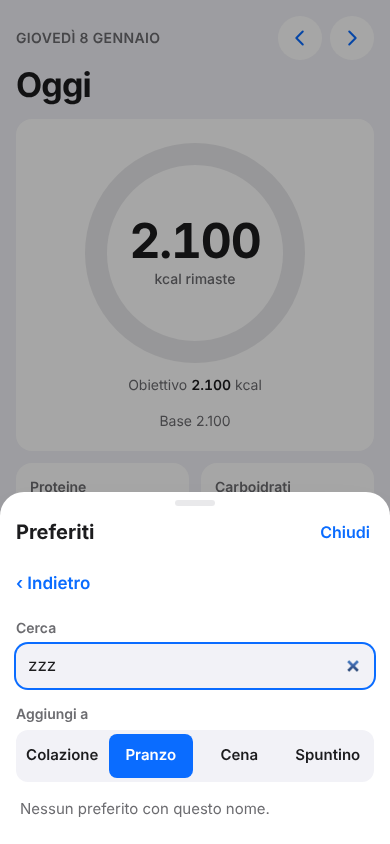
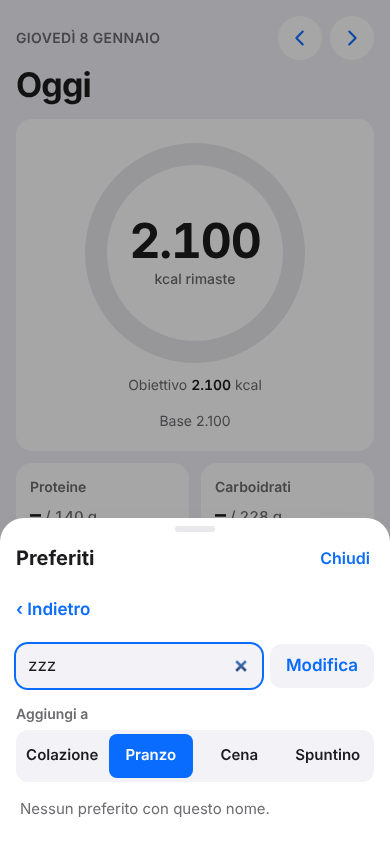
T4b.3 preferiti: + e Modifica (in attesa di revisione)
Claude-Session: https://claude.ai/code/session_015vJA156enAwwDaa2Dedvun

diff --git a/src/app/components/favorites-view.tsx b/src/app/components/favorites-view.tsx
@@ -28,6 +28,8 @@ export function FavoritesView({ store, date, initialSlot, dayDishes, onChanged, 
   const [slot, setSlot] = useState<MealSlot>(initialSlot ?? "pranzo");
   const [busy, setBusy] = useState(false);
   const [confirmDelete, setConfirmDelete] = useState<string | null>(null);
+  // In modifica ogni riga mostra "Elimina" al posto del "+" e un tocco sulla riga non aggiunge nulla.
+  const [editing, setEditing] = useState(false);
   const [loadFailed, setLoadFailed] = useState(false);
 
   const load = () =>
@@ -81,26 +83,47 @@ export function FavoritesView({ store, date, initialSlot, dayDishes, onChanged, 
   const dishes = filterByName(lists.dishes, query);
   const total = lists.meals.length + lists.dishes.length;
 
-  const row = (kind: "dish" | "meal", id: string, name: string, detail: string, kcal: number, onAdd: () => void) => (
-    <li key={`${kind}-${id}`} className="flex items-stretch border-t border-line first:border-t-0">
-      <button type="button" disabled={busy} onClick={onAdd} aria-label={`Aggiungi ${name}`} className="flex min-h-14 min-w-0 flex-1 items-center justify-between gap-3 px-4 py-2 text-left disabled:opacity-50">
-        <span className="min-w-0">
+  const plus = (
+    <svg width="28" height="28" viewBox="0 0 24 24" fill="none" stroke="currentColor" strokeWidth="2.4" strokeLinecap="round" aria-hidden="true" className="shrink-0 text-accent">
+      <circle cx="12" cy="12" r="10" strokeWidth="1.8" />
+      <path d="M12 8v8M8 12h8" />
+    </svg>
+  );
+
+  const row = (kind: "dish" | "meal", id: string, name: string, detail: string | null, kcal: number, onAdd: () => void) => {
+    const text = (
+      <>
+        <span className="min-w-0 flex-1">
           <span className="block break-words text-[17px] font-semibold leading-snug">{name}</span>
-          <span className="block break-words text-sm text-muted">{detail}</span>
+          {detail && <span className="block break-words text-sm text-muted">{detail}</span>}
         </span>
         <span className="shrink-0 text-[16px] tabular-nums text-muted">{formatNumber(kcal)} kcal</span>
-      </button>
-      {confirmDelete === `${kind}-${id}` ? (
-        <button type="button" disabled={busy} onClick={() => remove(kind, id)} className="min-h-14 shrink-0 bg-bad-fill px-3 text-[15px] font-semibold text-white disabled:opacity-50">
-          Elimina davvero
-        </button>
-      ) : (
-        <button type="button" onClick={() => setConfirmDelete(`${kind}-${id}`)} aria-label={`Elimina ${name} dai preferiti`} className="min-h-14 min-w-11 shrink-0 px-3 text-[15px] font-semibold text-bad">
-          Elimina
-        </button>
-      )}
-    </li>
-  );
+      </>
+    );
+    return (
+      <li key={`${kind}-${id}`} className="flex items-stretch border-t border-line first:border-t-0">
+        {editing ? (
+          <>
+            <div className="flex min-h-14 min-w-0 flex-1 items-center justify-between gap-3 px-4 py-2">{text}</div>
+            {confirmDelete === `${kind}-${id}` ? (
+              <button type="button" disabled={busy} onClick={() => remove(kind, id)} className="min-h-14 shrink-0 bg-bad-fill px-3 text-[15px] font-semibold text-white disabled:opacity-50">
+                Elimina davvero
+              </button>
+            ) : (
+              <button type="button" onClick={() => setConfirmDelete(`${kind}-${id}`)} aria-label={`Elimina ${name} dai preferiti`} className="min-h-14 min-w-11 shrink-0 px-3 text-[15px] font-semibold text-bad">
+                Elimina
+              </button>
+            )}
+          </>
+        ) : (
+          <button type="button" disabled={busy} onClick={onAdd} aria-label={`Aggiungi ${name}`} className="flex min-h-14 min-w-0 flex-1 items-center justify-between gap-3 px-4 py-2 text-left disabled:opacity-50">
+            {text}
+            {plus}
+          </button>
+        )}
+      </li>
+    );
+  };
 
   return (
     <div className="flex flex-col gap-4">
@@ -110,24 +133,42 @@ export function FavoritesView({ store, date, initialSlot, dayDishes, onChanged, 
         </p>
       ) : (
         <>
-          <div className="flex flex-col gap-1.5">
-            <label htmlFor="fav-search" className="text-sm font-semibold text-muted">
-              Cerca
-            </label>
-            <input id="fav-search" type="search" autoComplete="off" value={query} onChange={(e) => setQuery(e.target.value)} placeholder="Nome del piatto o del pasto" className={input} />
+          <div className="flex items-center gap-2">
+            <input
+              id="fav-search"
+              type="search"
+              autoComplete="off"
+              aria-label="Cerca"
+              value={query}
+              onChange={(e) => setQuery(e.target.value)}
+              placeholder="Cerca"
+              className={`${input} min-w-0 flex-1`}
+            />
+            <button
+              type="button"
+              onClick={() => {
+                setEditing((v) => !v);
+                setConfirmDelete(null);
+              }}
+              className="min-h-11 shrink-0 rounded-xl bg-bg px-4 text-[17px] font-semibold text-accent"
+            >
+              {editing ? "Fine" : "Modifica"}
+            </button>
           </div>
-          <div className="flex flex-col gap-1.5">
-            <span id="fav-slot" className="text-sm font-semibold text-muted">
-              Aggiungi a
-            </span>
-            <div role="radiogroup" aria-labelledby="fav-slot" className="grid grid-cols-4 gap-1 rounded-xl bg-bg p-1">
-              {SLOTS.map((s) => (
-                <button key={s.value} type="button" role="radio" aria-checked={slot === s.value} onClick={() => setSlot(s.value)} className={`min-h-11 rounded-lg px-1 text-[15px] font-semibold ${slot === s.value ? "bg-accent text-white" : "text-fg"}`}>
-                  {s.label}
-                </button>
-              ))}
+          {!initialSlot && !editing && (
+            <div className="flex flex-col gap-1.5">
+              <span id="fav-slot" className="text-sm font-semibold text-muted">
+                Aggiungi a
+              </span>
+              <div role="radiogroup" aria-labelledby="fav-slot" className="grid grid-cols-4 gap-1 rounded-xl bg-bg p-1">
+                {SLOTS.map((s) => (
+                  <button key={s.value} type="button" role="radio" aria-checked={slot === s.value} onClick={() => setSlot(s.value)} className={`min-h-11 rounded-lg px-1 text-[15px] font-semibold ${slot === s.value ? "bg-accent text-white" : "text-fg"}`}>
+                    {s.label}
+                  </button>
+                ))}
+              </div>
             </div>
-          </div>
+          )}
           {meals.length > 0 && (
             <section aria-label="Pasti salvati" className="flex flex-col gap-2">
               <h3 className="text-sm font-semibold uppercase tracking-wide text-muted">Pasti</h3>
@@ -140,7 +181,7 @@ export function FavoritesView({ store, date, initialSlot, dayDishes, onChanged, 
             <section aria-label="Piatti salvati" className="flex flex-col gap-2">
               <h3 className="text-sm font-semibold uppercase tracking-wide text-muted">Piatti</h3>
               <ul className="overflow-hidden rounded-2xl bg-bg">
-                {dishes.map((f) => row("dish", f.id, f.name, f.quantity ?? "Senza quantità", f.kcal, () => add(recordsFromFavoriteDish(f, date, slot, newId))))}
+                {dishes.map((f) => row("dish", f.id, f.name, f.quantity, f.kcal, () => add(recordsFromFavoriteDish(f, date, slot, newId))))}
               </ul>
             </section>
           )}

diff --git a/docs/DIARIO.md b/docs/DIARIO.md
@@ -45,6 +45,7 @@ Una riga per task chiuso.
 - Verifica dopo la fase · contatore delle stime AI protetto: l'utente poteva azzerare `ai_usage` con un update diretto e superare il limite. Migrazione 0009: tolti i permessi diretti di inserimento e modifica, funzione `use_ai_estimate` con i permessi del proprietario. Provata su PostgreSQL locale: limite rispettato, update diretto senza effetto. Aggiunto `supabase/aggiornamento-fase-4.sql` (migrazioni 6-9) per chi ha già eseguito `setup.sql` della fase 3.
 - T4b.1 · fatto · pannello Aggiungi con selettore "AI | Manuale" accanto al titolo (si apre su AI); AI: campo "Cosa hai mangiato?" vuoto, senza esempio né frase sul microfono, avviso «Usa Manuale» se l'AI non c'è; Manuale: piatto a mano con "Stima con AI"; sotto "Preferiti", "Attività a mano", "Pesata" senza righe grigie. Tolti "Piatto a mano" e "Copia da ieri" (con `copy-meals.ts`, il suo test e 2 scenari). "+ Aggiungi piatto" apre lo stesso pannello con la fascia come titolo e fissata (`forceSlot`: tutti i piatti proposti nella fascia fissata) e sotto solo "Preferiti". Tolti anche tutti i testi d'esempio nei campi (piatto, AI, correzione, primo avvio, accesso). 4 scenari nuovi.
 - T4b.2 · fatto · proposta dell'AI a righe compatte: ogni piatto è una riga (nome, quantità con "ipotizzata", kcal); toccandola si aprono nome, quantità, nota del modello, kcal e nutrienti e "Togli"; un piatto con un errore si apre da solo e la riga dice "da correggere"; tolta la frase "Controlla la stima…". Restano Correggi, Rifai la stima, Conferma, Annulla. Scenari aggiornati (+2 nuovi).
+- T4b.3 · fatto · Preferiti: ogni riga ha un + a destra e un tocco la aggiunge; "Elimina" non è più nella lista: il pulsante "Modifica" accanto al campo di ricerca mostra "Elimina" (con conferma "Elimina davvero") su ogni riga e nasconde i +, "Fine" torna indietro; il campo di ricerca non ha più l'etichetta sopra (resta "Cerca" nel campo); tolta la nota "Senza quantità"; con la fascia fissata (dal pasto) non compare la scelta della fascia. 3 scenari nuovi.
 
 ## Decisioni da confermare
 
@@ -118,6 +119,7 @@ Una riga per task chiuso.
 - Pannello Aggiungi (T4b.1): la parte principale resta montata (nascosta) quando si apre Preferiti, Attività o Pesata, così il testo scritto e la proposta non si perdono tornando indietro; passando da AI a Manuale e ritorno succede lo stesso. Con la fascia fissata tutti i piatti proposti finiscono in un solo pasto in quella fascia, e il segno «libero» segue lo stato del pasto già esistente (come prima). Nel pannello a fascia fissata la sotto-schermata Preferiti parte con quella fascia. Il selettore ha pulsanti larghi almeno 44 px.
 - Tolti i testi d'esempio anche nel primo avvio e nell'accesso (non richiesto dal solo T4b.1 ma dalla regola di fase): restano solo i suggerimenti dei valori predefiniti in Impostazioni, che non sono esempi.
 - Proposta compatta (T4b.2): le righe partono tutte chiuse (anche con un solo piatto); si possono aprire più righe insieme. Dopo "Rifai la stima" le righe tornano chiuse. Nessuna logica nuova da testare a parte (solo presentazione).
+- Preferiti (T4b.3): in modalità Modifica sparisce anche la scelta della fascia (non serve per eliminare); uscendo da Modifica ("Fine") una conferma di eliminazione a metà viene annullata. Il campo di ricerca ha come testo "Cerca" e come nome per gli screen reader "Cerca".
 
 ## Non verificato
 

diff --git a/docs/TASKS.md b/docs/TASKS.md
@@ -301,7 +301,7 @@ Vincoli di questa fase:
 - Toccando la riga si aprono nome, quantità, nota del modello, kcal e nutrienti modificabili, e "Togli". Un piatto con un errore si apre da solo e la riga lo segnala.
 - Sparisce la frase iniziale "Controlla la stima…". Restano "Correggi", "Rifai la stima", "Conferma", "Annulla".
 
-### T4b.3 Preferiti: + e Modifica · da fare
+### T4b.3 Preferiti: + e Modifica · fatto
 - Ogni riga mostra a destra un + ben visibile: toccando la riga il preferito si aggiunge.
 - "Elimina" non compare più nella lista. Un pulsante "Modifica" accanto al campo di ricerca mostra "Elimina" (con conferma) su ogni riga e nasconde i +; "Fine" torna alla lista normale.
 - Il campo di ricerca non ha più l'etichetta "Cerca" sopra (resta come testo nel campo). Sparisce la nota "Senza quantità".
